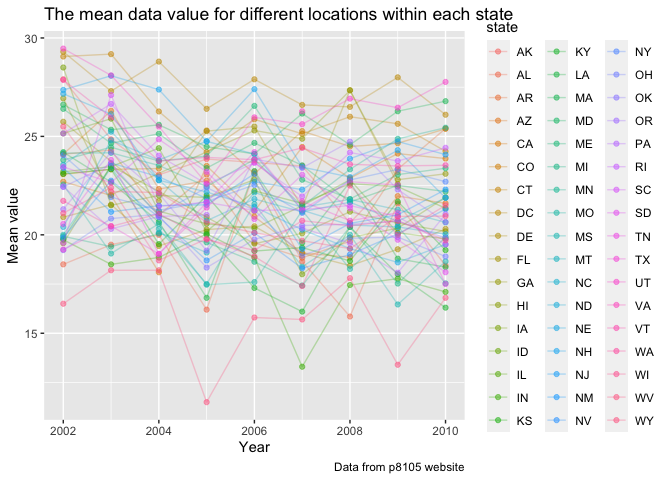
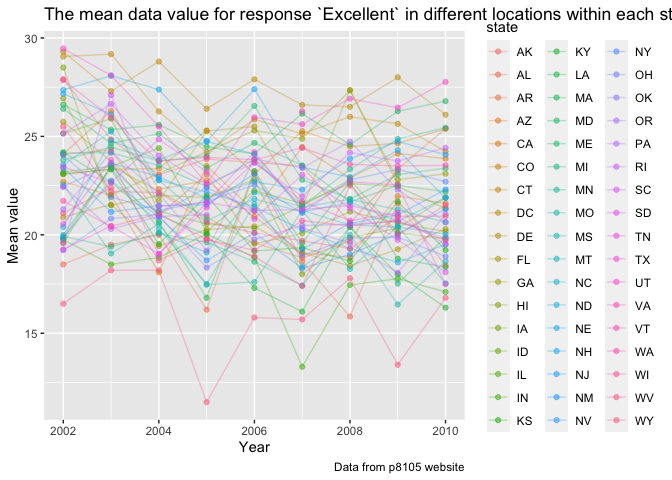
finished problem 2, editted code for cleaning data

Changed region(s): [[0.3438, 0.0, 1.0, 0.0625]]

diff --git a/p8105_hw3_ws2646.md b/p8105_hw3_ws2646.md
@@ -293,7 +293,7 @@ brfss_clean =
   separate(locationdesc, into = c("state", "county"), sep = "-") %>% 
   filter(topic == "Overall Health", response == "Poor" | response == "Fair" | response == "Good" | 
            response == "Very Good" | response == "Excellent") %>% 
-  mutate(response = factor(response, levels = c("Poor", "Fair", "Good", "Very Good", "Excellent"), ordered = TRUE)) %>% 
+  mutate(response = factor(response, levels = c("Poor", "Fair", "Good", "Very good", "Excellent"), ordered = TRUE)) %>% 
   arrange(response)
 ```
 
@@ -397,7 +397,7 @@ ggplot(excellent_rsp, aes(x = year, y = mean_value, color = state)) +
   geom_point(alpha = .5) +
   geom_line(alpha = .3) +
   labs(
-    title = "The mean data value for different locations within each state",
+    title = "The mean data value for response `Excellent` in different locations within each state",
     x = "Year",
     y = "Mean value",
     caption = "Data from p8105 website"
@@ -409,3 +409,29 @@ ggplot(excellent_rsp, aes(x = year, y = mean_value, color = state)) +
     ## Warning: Removed 3 row(s) containing missing values (geom_path).
 
 ![](p8105_hw3_ws2646_files/figure-gfm/unnamed-chunk-14-1.png)<!-- -->
+
+``` r
+brfss_06_10 = 
+  brfss_smart2010 %>% 
+  janitor::clean_names() %>% 
+  filter(locationabbr == "NY") %>%
+  separate(locationdesc, into = c("state", "county"), sep = "-") %>%
+  select(-locationabbr) %>% 
+  filter(topic == "Overall Health", response == "Poor" | response == "Fair" | response == "Good" | response == "Very good" | response == "Excellent") %>% 
+  mutate(response = factor(response, levels = c("Poor", "Fair", "Good", "Very good", "Excellent"), ordered = TRUE)) %>%  #I don't know why brfss_clean doesn't work for me, so I have to do this over again.
+  filter(year == 2006 | year == 2010) %>% 
+  select(year, state, county, response, data_value) 
+
+ggplot(brfss_06_10, aes(x = response, y = data_value, color = county))+
+  geom_point(alpha = .5)+
+  facet_grid(. ~ year)+
+  labs(
+    title = "Distribution of data value for responses among locations in NY",
+    x = "Response (from Poor to Excellent)",
+    y = "Data Value",
+    caption = "Data from p8105 website"
+  )+
+  theme(legend.position = "bottom")
+```
+
+![](p8105_hw3_ws2646_files/figure-gfm/unnamed-chunk-15-1.png)<!-- -->
